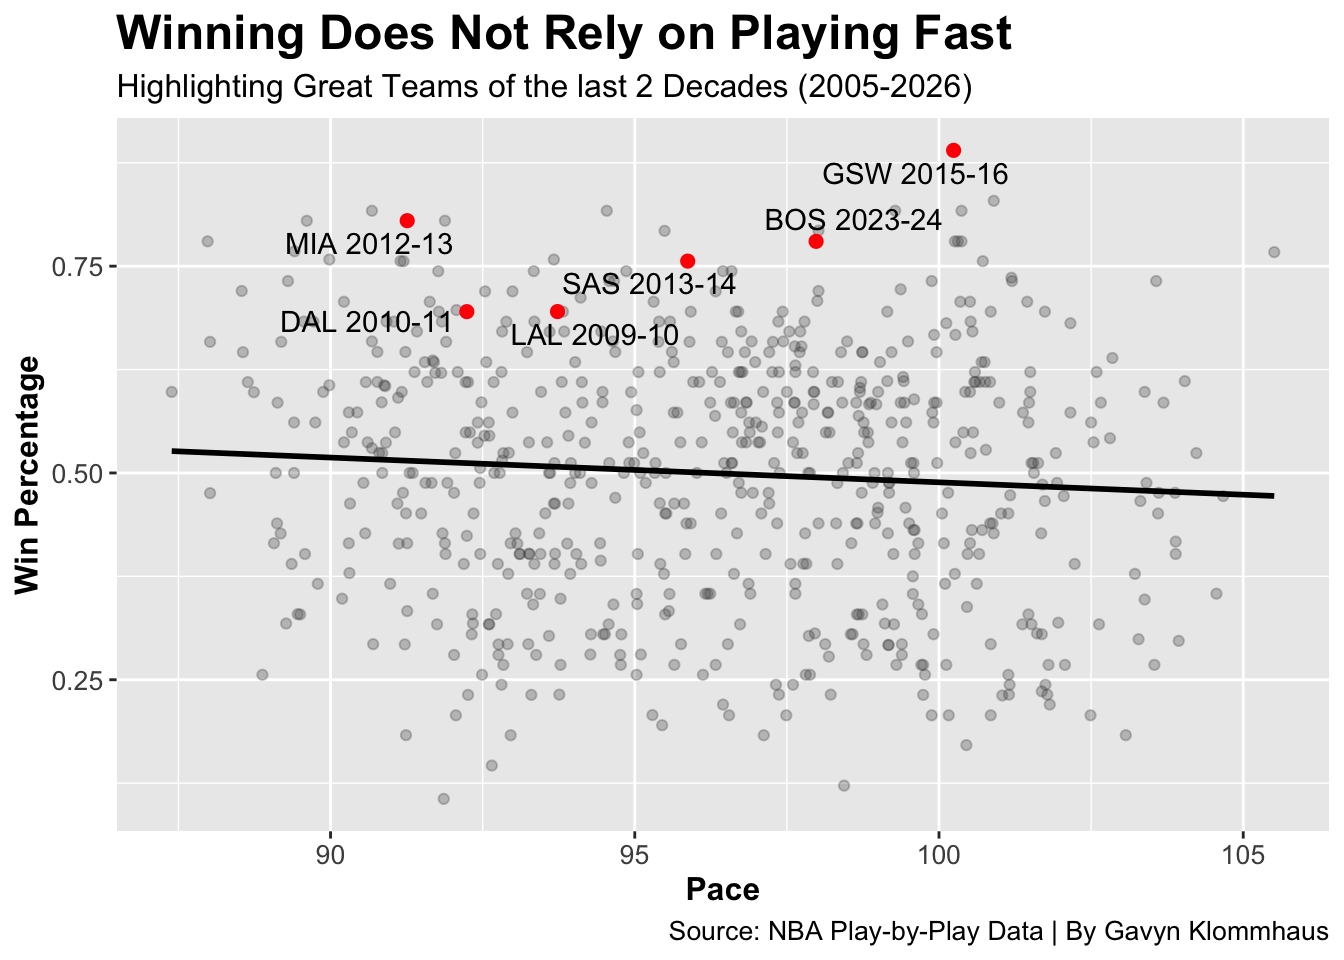
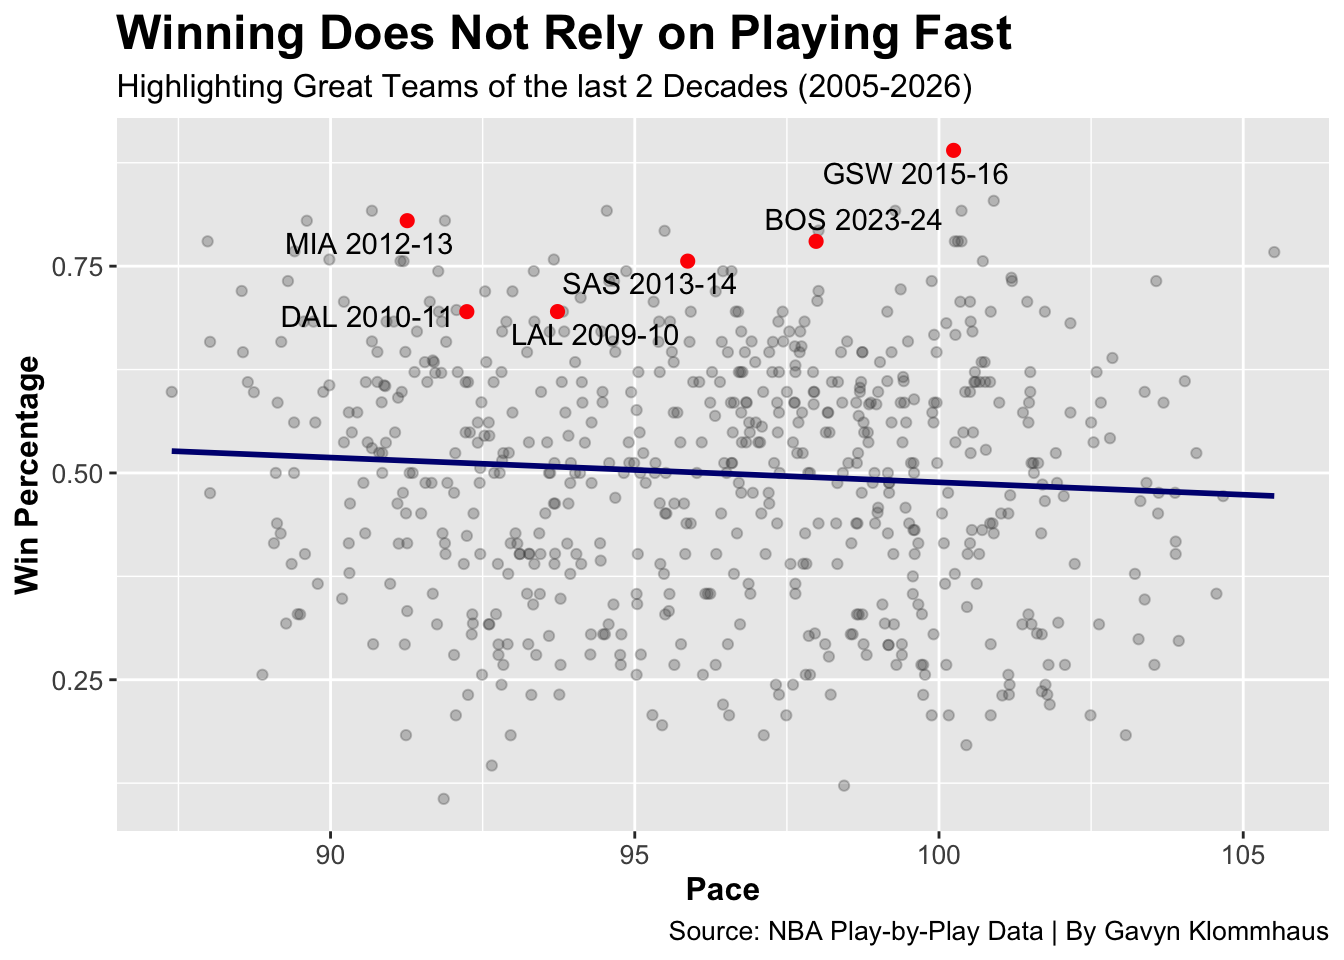
done

diff --git a/posts/pace-of-play/index.html b/posts/pace-of-play/index.html
@@ -284,7 +284,7 @@ pre > code.sourceCode > span > a:first-child::before { text-decoration: underlin
 <span id="cb2-23"><a href="#cb2-23" aria-hidden="true" tabindex="-1"></a>    <span class="fu">aes</span>(<span class="at">x =</span> pace, <span class="at">y =</span> win_pct),</span>
 <span id="cb2-24"><a href="#cb2-24" aria-hidden="true" tabindex="-1"></a>    <span class="at">method =</span> <span class="st">"lm"</span>,</span>
 <span id="cb2-25"><a href="#cb2-25" aria-hidden="true" tabindex="-1"></a>    <span class="at">se =</span> <span class="cn">FALSE</span>,</span>
-<span id="cb2-26"><a href="#cb2-26" aria-hidden="true" tabindex="-1"></a>    <span class="at">color =</span> <span class="st">"black"</span></span>
+<span id="cb2-26"><a href="#cb2-26" aria-hidden="true" tabindex="-1"></a>    <span class="at">color =</span> <span class="st">"navy"</span></span>
 <span id="cb2-27"><a href="#cb2-27" aria-hidden="true" tabindex="-1"></a>  ) <span class="sc">+</span></span>
 <span id="cb2-28"><a href="#cb2-28" aria-hidden="true" tabindex="-1"></a>  <span class="fu">geom_text_repel</span>(</span>
 <span id="cb2-29"><a href="#cb2-29" aria-hidden="true" tabindex="-1"></a>    <span class="at">data =</span> <span class="fu">subset</span>(all_teams,</span>
@@ -332,27 +332,37 @@ pre > code.sourceCode > span > a:first-child::before { text-decoration: underlin
 <span id="cb3-6"><a href="#cb3-6" aria-hidden="true" tabindex="-1"></a>    pace <span class="sc">&lt;</span> <span class="dv">96</span> <span class="sc">~</span> <span class="st">"Fast"</span>,</span>
 <span id="cb3-7"><a href="#cb3-7" aria-hidden="true" tabindex="-1"></a>    pace <span class="sc">&lt;</span> <span class="dv">98</span> <span class="sc">~</span> <span class="st">"Faster"</span>,</span>
 <span id="cb3-8"><a href="#cb3-8" aria-hidden="true" tabindex="-1"></a>    <span class="cn">TRUE</span> <span class="sc">~</span> <span class="st">"Fastest"</span></span>
-<span id="cb3-9"><a href="#cb3-9" aria-hidden="true" tabindex="-1"></a>  ))</span>
-<span id="cb3-10"><a href="#cb3-10" aria-hidden="true" tabindex="-1"></a></span>
-<span id="cb3-11"><a href="#cb3-11" aria-hidden="true" tabindex="-1"></a>all_teams <span class="sc">|&gt;</span></span>
-<span id="cb3-12"><a href="#cb3-12" aria-hidden="true" tabindex="-1"></a>  <span class="fu">group_by</span>(pace_group) <span class="sc">|&gt;</span></span>
-<span id="cb3-13"><a href="#cb3-13" aria-hidden="true" tabindex="-1"></a>  <span class="fu">summarise</span>(<span class="at">avg_win =</span> <span class="fu">mean</span>(win_pct)) <span class="sc">|&gt;</span></span>
-<span id="cb3-14"><a href="#cb3-14" aria-hidden="true" tabindex="-1"></a>  <span class="fu">ggplot</span>(<span class="fu">aes</span>(<span class="at">x =</span> pace_group, <span class="at">y =</span> avg_win)) <span class="sc">+</span></span>
-<span id="cb3-15"><a href="#cb3-15" aria-hidden="true" tabindex="-1"></a>  <span class="fu">geom_col</span>(<span class="at">color =</span> <span class="st">"black"</span>, <span class="at">fill =</span> <span class="st">"grey60"</span>) <span class="sc">+</span></span>
-<span id="cb3-16"><a href="#cb3-16" aria-hidden="true" tabindex="-1"></a>  <span class="fu">labs</span>(</span>
-<span id="cb3-17"><a href="#cb3-17" aria-hidden="true" tabindex="-1"></a>    <span class="at">title =</span> <span class="st">"Average Win Percentage by Pace Group"</span>,</span>
-<span id="cb3-18"><a href="#cb3-18" aria-hidden="true" tabindex="-1"></a>    <span class="at">subtitle =</span> <span class="st">"Comparing team success across different pace tiers (2005–2026)"</span>,</span>
-<span id="cb3-19"><a href="#cb3-19" aria-hidden="true" tabindex="-1"></a>    <span class="at">x =</span> <span class="st">"Pace Group"</span>,</span>
-<span id="cb3-20"><a href="#cb3-20" aria-hidden="true" tabindex="-1"></a>    <span class="at">y =</span> <span class="st">"Average Win Percentage"</span>,</span>
-<span id="cb3-21"><a href="#cb3-21" aria-hidden="true" tabindex="-1"></a>    <span class="at">caption =</span> <span class="st">"Source: NBA Data | By Gavyn Klommhaus"</span></span>
-<span id="cb3-22"><a href="#cb3-22" aria-hidden="true" tabindex="-1"></a>  ) <span class="sc">+</span></span>
-<span id="cb3-23"><a href="#cb3-23" aria-hidden="true" tabindex="-1"></a>  <span class="fu">theme</span>(</span>
-<span id="cb3-24"><a href="#cb3-24" aria-hidden="true" tabindex="-1"></a>    <span class="at">plot.title =</span> <span class="fu">element_text</span>(<span class="at">size =</span> <span class="dv">18</span>, <span class="at">face =</span> <span class="st">"bold"</span>),</span>
-<span id="cb3-25"><a href="#cb3-25" aria-hidden="true" tabindex="-1"></a>    <span class="at">plot.subtitle =</span> <span class="fu">element_text</span>(<span class="at">size =</span> <span class="dv">12</span>),</span>
-<span id="cb3-26"><a href="#cb3-26" aria-hidden="true" tabindex="-1"></a>    <span class="at">axis.title =</span> <span class="fu">element_text</span>(<span class="at">size =</span> <span class="dv">12</span>, <span class="at">face =</span> <span class="st">"bold"</span>),</span>
-<span id="cb3-27"><a href="#cb3-27" aria-hidden="true" tabindex="-1"></a>    <span class="at">axis.text =</span> <span class="fu">element_text</span>(<span class="at">size =</span> <span class="dv">10</span>),</span>
-<span id="cb3-28"><a href="#cb3-28" aria-hidden="true" tabindex="-1"></a>    <span class="at">plot.caption =</span> <span class="fu">element_text</span>(<span class="at">size =</span> <span class="dv">10</span>)</span>
-<span id="cb3-29"><a href="#cb3-29" aria-hidden="true" tabindex="-1"></a>  )</span></code></pre></div><button title="Copy to Clipboard" class="code-copy-button"><i class="bi"></i></button></div>
+<span id="cb3-9"><a href="#cb3-9" aria-hidden="true" tabindex="-1"></a>  )) <span class="sc">|&gt;</span></span>
+<span id="cb3-10"><a href="#cb3-10" aria-hidden="true" tabindex="-1"></a><span class="fu">mutate</span>(<span class="at">pace_group =</span> <span class="fu">factor</span>(pace_group, </span>
+<span id="cb3-11"><a href="#cb3-11" aria-hidden="true" tabindex="-1"></a>  <span class="at">levels =</span> <span class="fu">c</span>(<span class="st">"Slowest"</span>, <span class="st">"Slower"</span>, <span class="st">"Slow"</span>, <span class="st">"Fast"</span>, <span class="st">"Faster"</span>, <span class="st">"Fastest"</span>)))</span>
+<span id="cb3-12"><a href="#cb3-12" aria-hidden="true" tabindex="-1"></a></span>
+<span id="cb3-13"><a href="#cb3-13" aria-hidden="true" tabindex="-1"></a>all_teams <span class="sc">|&gt;</span></span>
+<span id="cb3-14"><a href="#cb3-14" aria-hidden="true" tabindex="-1"></a>  <span class="fu">group_by</span>(pace_group) <span class="sc">|&gt;</span></span>
+<span id="cb3-15"><a href="#cb3-15" aria-hidden="true" tabindex="-1"></a>  <span class="fu">summarise</span>(<span class="at">avg_win =</span> <span class="fu">mean</span>(win_pct)) <span class="sc">|&gt;</span></span>
+<span id="cb3-16"><a href="#cb3-16" aria-hidden="true" tabindex="-1"></a>  <span class="fu">ggplot</span>(<span class="fu">aes</span>(<span class="at">x =</span> pace_group, <span class="at">y =</span> avg_win)) <span class="sc">+</span></span>
+<span id="cb3-17"><a href="#cb3-17" aria-hidden="true" tabindex="-1"></a>  <span class="fu">geom_col</span>(<span class="at">color =</span> <span class="st">"black"</span>, <span class="at">fill =</span> <span class="st">"grey60"</span>) <span class="sc">+</span></span>
+<span id="cb3-18"><a href="#cb3-18" aria-hidden="true" tabindex="-1"></a>  <span class="fu">scale_x_discrete</span>(<span class="at">labels =</span> <span class="fu">c</span>(</span>
+<span id="cb3-19"><a href="#cb3-19" aria-hidden="true" tabindex="-1"></a>  <span class="st">"Slowest</span><span class="sc">\n</span><span class="st">(&lt;90)"</span>,</span>
+<span id="cb3-20"><a href="#cb3-20" aria-hidden="true" tabindex="-1"></a>  <span class="st">"Slower</span><span class="sc">\n</span><span class="st">(90–92)"</span>,</span>
+<span id="cb3-21"><a href="#cb3-21" aria-hidden="true" tabindex="-1"></a>  <span class="st">"Slow</span><span class="sc">\n</span><span class="st">(92–94)"</span>,</span>
+<span id="cb3-22"><a href="#cb3-22" aria-hidden="true" tabindex="-1"></a>  <span class="st">"Fast</span><span class="sc">\n</span><span class="st">(94–96)"</span>,</span>
+<span id="cb3-23"><a href="#cb3-23" aria-hidden="true" tabindex="-1"></a>  <span class="st">"Faster</span><span class="sc">\n</span><span class="st">(96–98)"</span>,</span>
+<span id="cb3-24"><a href="#cb3-24" aria-hidden="true" tabindex="-1"></a>  <span class="st">"Fastest</span><span class="sc">\n</span><span class="st">(98+)"</span></span>
+<span id="cb3-25"><a href="#cb3-25" aria-hidden="true" tabindex="-1"></a>)) <span class="sc">+</span></span>
+<span id="cb3-26"><a href="#cb3-26" aria-hidden="true" tabindex="-1"></a>  <span class="fu">labs</span>(</span>
+<span id="cb3-27"><a href="#cb3-27" aria-hidden="true" tabindex="-1"></a>    <span class="at">title =</span> <span class="st">"Average Win Percentage by Pace Group"</span>,</span>
+<span id="cb3-28"><a href="#cb3-28" aria-hidden="true" tabindex="-1"></a>    <span class="at">subtitle =</span> <span class="st">"Comparing team success across different pace tiers (2005–2026)"</span>,</span>
+<span id="cb3-29"><a href="#cb3-29" aria-hidden="true" tabindex="-1"></a>    <span class="at">x =</span> <span class="st">"Pace Group"</span>,</span>
+<span id="cb3-30"><a href="#cb3-30" aria-hidden="true" tabindex="-1"></a>    <span class="at">y =</span> <span class="st">"Average Win Percentage"</span>,</span>
+<span id="cb3-31"><a href="#cb3-31" aria-hidden="true" tabindex="-1"></a>    <span class="at">caption =</span> <span class="st">"Source: NBA Data | By Gavyn Klommhaus"</span></span>
+<span id="cb3-32"><a href="#cb3-32" aria-hidden="true" tabindex="-1"></a>  ) <span class="sc">+</span></span>
+<span id="cb3-33"><a href="#cb3-33" aria-hidden="true" tabindex="-1"></a>  <span class="fu">theme</span>(</span>
+<span id="cb3-34"><a href="#cb3-34" aria-hidden="true" tabindex="-1"></a>    <span class="at">plot.title =</span> <span class="fu">element_text</span>(<span class="at">size =</span> <span class="dv">18</span>, <span class="at">face =</span> <span class="st">"bold"</span>),</span>
+<span id="cb3-35"><a href="#cb3-35" aria-hidden="true" tabindex="-1"></a>    <span class="at">plot.subtitle =</span> <span class="fu">element_text</span>(<span class="at">size =</span> <span class="dv">12</span>),</span>
+<span id="cb3-36"><a href="#cb3-36" aria-hidden="true" tabindex="-1"></a>    <span class="at">axis.title =</span> <span class="fu">element_text</span>(<span class="at">size =</span> <span class="dv">12</span>, <span class="at">face =</span> <span class="st">"bold"</span>),</span>
+<span id="cb3-37"><a href="#cb3-37" aria-hidden="true" tabindex="-1"></a>    <span class="at">axis.text =</span> <span class="fu">element_text</span>(<span class="at">size =</span> <span class="dv">10</span>),</span>
+<span id="cb3-38"><a href="#cb3-38" aria-hidden="true" tabindex="-1"></a>    <span class="at">plot.caption =</span> <span class="fu">element_text</span>(<span class="at">size =</span> <span class="dv">10</span>)</span>
+<span id="cb3-39"><a href="#cb3-39" aria-hidden="true" tabindex="-1"></a>  )</span></code></pre></div><button title="Copy to Clipboard" class="code-copy-button"><i class="bi"></i></button></div>
 </details>
 <div class="cell-output-display">
 <div>
@@ -362,7 +372,7 @@ pre > code.sourceCode > span > a:first-child::before { text-decoration: underlin
 </div>
 </div>
 </div>
-<p>In conclusion, after discussing and grabbing and graphing data, we can see that there is absoulately no correaltion between a winning NBA team and how fast they play the game.</p>
+<p>In conclusion, after discussing, grabbing and graphing data, we can see that there appears to be absolutely no correlation between a winning NBA team and how fast they play the game. Winning in the NBA depends more on efficiency, shooting, and defense than simply how fast the team plays.</p>
 
 
 

diff --git a/index.html b/index.html
@@ -210,7 +210,7 @@ window.Quarto = {
 
 <div class="quarto-listing quarto-listing-container-default" id="listing-listing">
 <div class="list quarto-listing-default">
-<div class="quarto-post image-right" data-index="0" data-categories="TkJBJTJDcGFjZSUyQ2Jhc2tldGJhbGw=" data-listing-date-sort="1777266000000" data-listing-file-modified-sort="1777315803205" data-listing-date-modified-sort="NaN" data-listing-reading-time-sort="6" data-listing-word-count-sort="1177">
+<div class="quarto-post image-right" data-index="0" data-categories="TkJBJTJDcGFjZSUyQ2Jhc2tldGJhbGw=" data-listing-date-sort="1777266000000" data-listing-file-modified-sort="1777394248842" data-listing-date-modified-sort="NaN" data-listing-reading-time-sort="7" data-listing-word-count-sort="1226">
 <div class="thumbnail"><a href="./posts/pace-of-play/index.html" class="no-external">
 
 <img loading="lazy" src="./posts/pace-of-play/image.png" class="thumbnail-image">
